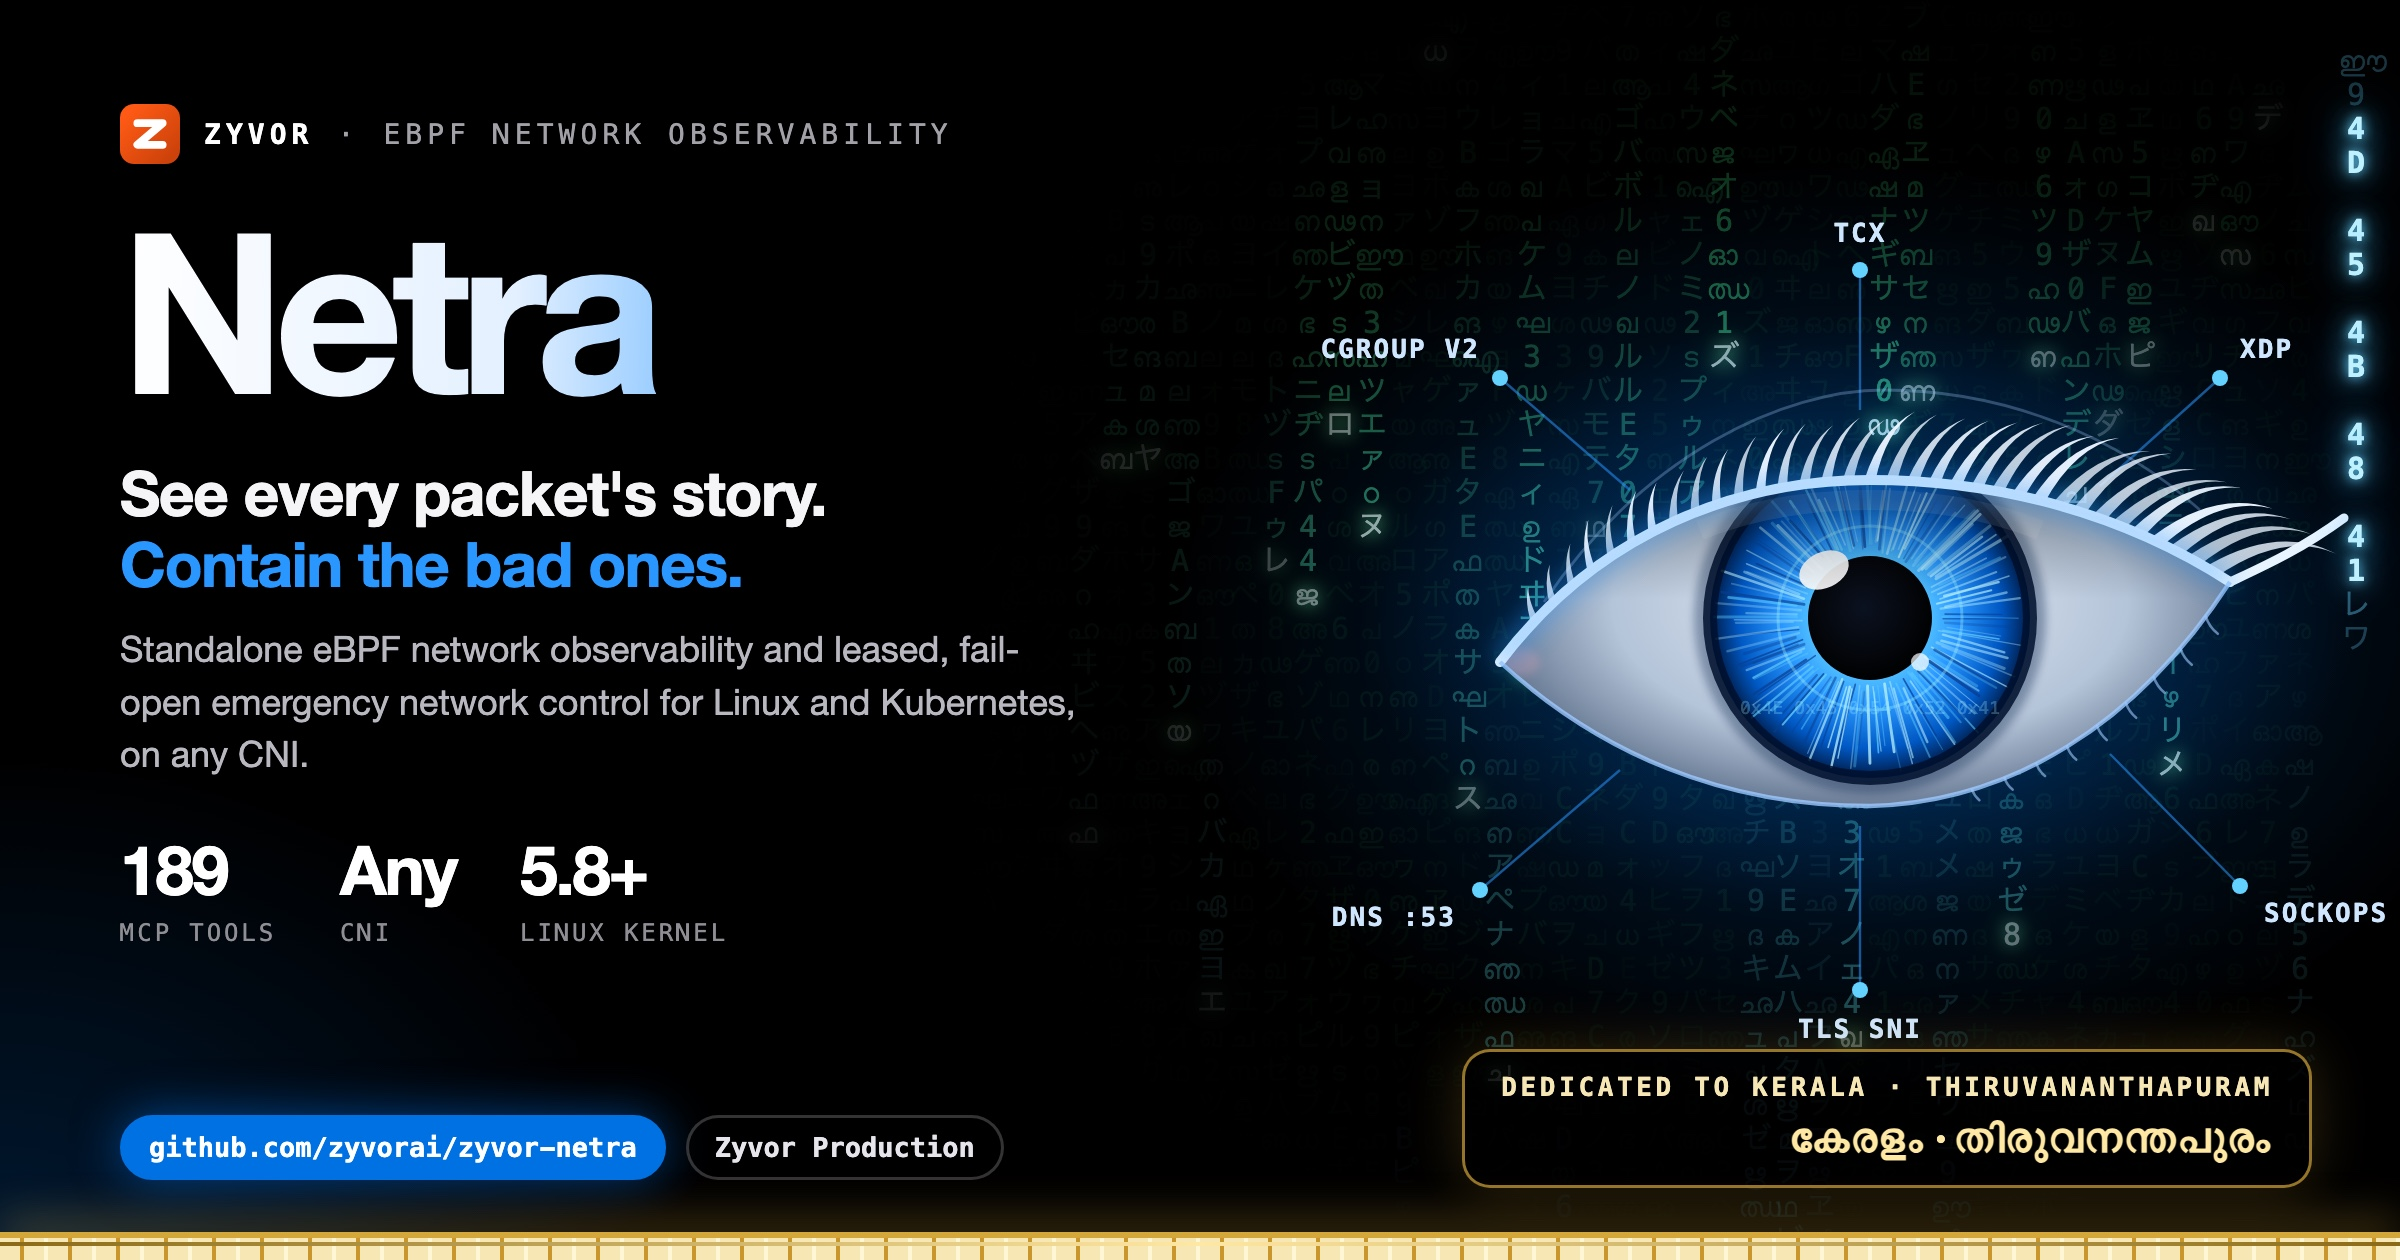
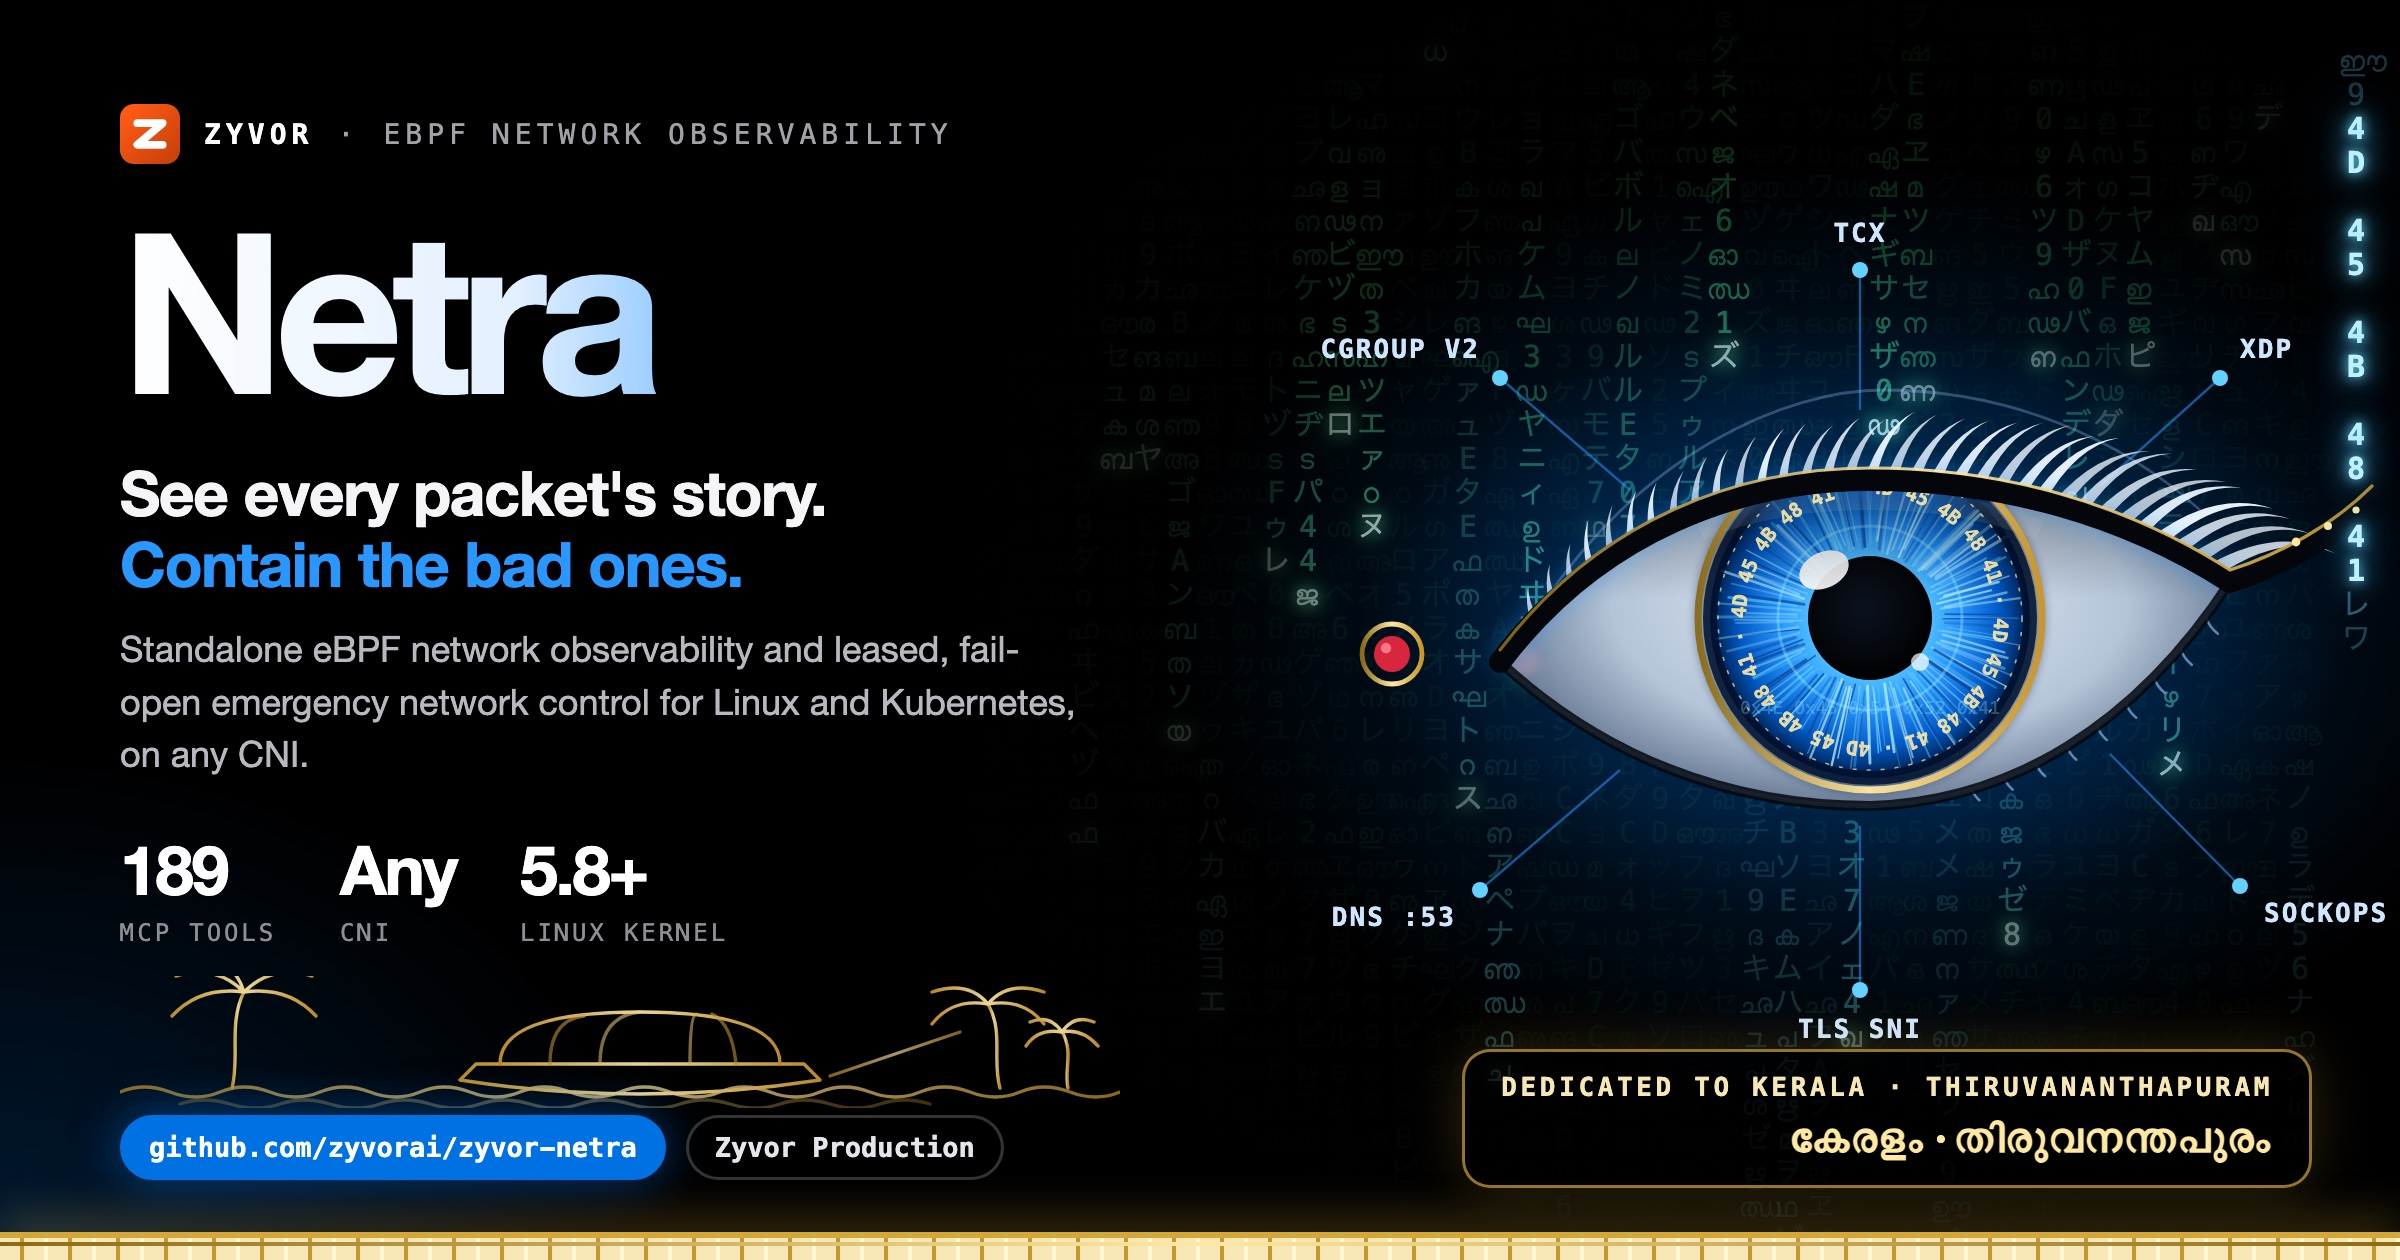
Hero: Kerala-style eye (kohl wing, gold iris ring with MEKHA in hex, bindi) and a backwater scene

diff --git a/docs/social/netra-hero-dark.html b/docs/social/netra-hero-dark.html
@@ -52,6 +52,7 @@
     background:rgba(0,0,0,.62); border:1.5px solid rgba(212,167,58,.7); box-shadow:0 0 28px rgba(212,167,58,.22); }
   .ded .en { font-family:var(--mono); font-size:13px; font-weight:700; letter-spacing:.14em; text-transform:uppercase; color:#f6e7b4; }
   .ded .ml { margin-top:4px; font-family:'Malayalam MN','Malayalam Sangam MN','Noto Sans Malayalam',var(--sans); font-size:22px; line-height:1.2; font-weight:700; color:#ffe8a3; }
+  .kerala { position:absolute; left:60px; top:488px; width:500px; height:66px; z-index:4; opacity:.92; }
 </style>
 </head>
 <body>
@@ -143,6 +144,27 @@
   <g id="lashes" fill="none" stroke="#e8f4ff" stroke-linecap="round"></g>
   <g id="lowlashes" fill="none" stroke="#9ec9ff" stroke-linecap="round" stroke-opacity=".6"></g>
   <path d="M150,236 C200,170 270,145 335,145 C400,145 462,162 515,196" fill="none" stroke="#2997ff" stroke-width="10" opacity=".45" filter="url(#bloom)"/>
+  <!-- Kerala style: heavy kohl with a winged tail, gold-ringed iris with MEKHA in hex, a bindi -->
+  <defs>
+    <linearGradient id="gold" x1="0" y1="0" x2="1" y2="0">
+      <stop offset="0" stop-color="#8a6a16"/><stop offset=".5" stop-color="#ffe8a3"/><stop offset="1" stop-color="#c9962b"/>
+    </linearGradient>
+    <path id="hexring" d="M335,152 a62,62 0 1,1 -0.01,0"/>
+  </defs>
+  <g clip-path="url(#eyeClip)">
+    <circle cx="335" cy="214" r="86" fill="none" stroke="url(#gold)" stroke-width="3.5" opacity=".95"/>
+    <circle cx="335" cy="214" r="76" fill="none" stroke="#ffe8a3" stroke-width=".8" stroke-dasharray="2 5" opacity=".7"/>
+    <text font-family="SF Mono, Menlo, monospace" font-size="10" font-weight="700" fill="#ffe8a3" opacity=".9" letter-spacing="1">
+      <textPath href="#hexring" textLength="384" lengthAdjust="spacing">4D 45 4B 48 41 &#183; 4D 45 4B 48 41 &#183; 4D 45 4B 48 41 &#183; 4D 45 4B 48 41 &#183;</textPath>
+    </text>
+  </g>
+  <path d="M150,236 C200,170 270,145 335,145 C400,145 462,162 515,196 C540,188 566,174 586,154" fill="none" stroke="#04060c" stroke-width="11" stroke-linecap="round" stroke-linejoin="round"/>
+  <path d="M150,236 C200,170 270,145 335,145 C400,145 462,162 515,196 C540,188 566,174 586,154" fill="none" stroke="url(#gold)" stroke-width="1.6" stroke-linecap="round" opacity=".9" transform="translate(0,-6)"/>
+  <path d="M150,236 C200,282 262,308 335,308 C405,306 468,268 515,196" fill="none" stroke="#04060c" stroke-width="5" stroke-linecap="round" opacity=".85"/>
+  <g fill="#ffe8a3"><circle cx="548" cy="176" r="2.2"/><circle cx="564" cy="168" r="2"/><circle cx="578" cy="160" r="1.8"/></g>
+  <!-- bindi -->
+  <circle cx="96" cy="232" r="15" fill="none" stroke="url(#gold)" stroke-width="2.4"/>
+  <circle cx="96" cy="232" r="9" fill="#d7263d"/><circle cx="93" cy="229" r="2.6" fill="#ff8d9a" opacity=".8"/>
 </svg>
 
 <div class="left">
@@ -152,6 +174,25 @@
   <div class="lede">Standalone eBPF network observability and leased, fail-open emergency network control for Linux and Kubernetes, on any CNI.</div>
   <div class="stats"><div class="stat"><b>189</b><span>MCP tools</span></div><div class="stat"><b>Any</b><span>CNI</span></div><div class="stat"><b>5.8+</b><span>Linux kernel</span></div></div>
 </div>
+<svg class="kerala" viewBox="0 0 500 66" aria-hidden="true" fill="none" stroke="url(#gold2)" stroke-width="1.7" stroke-linecap="round" stroke-linejoin="round">
+  <defs><linearGradient id="gold2" x1="0" y1="0" x2="1" y2="0"><stop offset="0" stop-color="#c9962b"/><stop offset=".5" stop-color="#ffe8a3"/><stop offset="1" stop-color="#c9962b"/></linearGradient></defs>
+  <!-- backwater -->
+  <path d="M0,58 q12,-5 25,0 t25,0 t25,0 t25,0 t25,0 t25,0 t25,0 t25,0 t25,0 t25,0 t25,0 t25,0 t25,0 t25,0 t25,0 t25,0 t25,0 t25,0 t25,0 t25,0" stroke-opacity=".75"/>
+  <path d="M30,64 q12,-4 25,0 t25,0 t25,0 t25,0 t25,0 t25,0 t25,0 t25,0 t25,0 t25,0 t25,0 t25,0 t25,0 t25,0 t25,0" stroke-opacity=".35"/>
+  <!-- coconut palm, left -->
+  <path d="M56,56 C60,40 54,24 62,8"/>
+  <path d="M62,8 q-22,-3 -36,12 M62,8 q-14,-14 -34,-8 M62,8 q22,-3 36,12 M62,8 q14,-14 34,-8 M62,8 q-3,-10 -10,-13"/>
+  <!-- kettuvallam houseboat: arched thatch roof over a curved hull -->
+  <path d="M170,52 Q260,66 350,52 L342,44 L178,44 Z"/>
+  <path d="M190,44 Q190,18 260,18 Q330,18 330,44"/>
+  <path d="M215,44 Q215,22 232,20 M240,44 Q240,20 260,18 M285,44 Q285,20 288,19 M308,44 Q306,24 296,19" stroke-opacity=".6"/>
+  <path d="M355,50 L420,28" stroke-opacity=".7"/>
+  <!-- palms, right -->
+  <path d="M440,56 C436,42 442,28 434,14"/>
+  <path d="M434,14 q-18,-3 -28,10 M434,14 q-10,-12 -28,-6 M434,14 q18,-3 28,10 M434,14 q10,-12 28,-6"/>
+  <path d="M474,56 C472,46 477,38 471,28"/>
+  <path d="M471,28 q-12,-2 -18,7 M471,28 q10,-2 18,7 M471,28 q-6,-9 -16,-5 M471,28 q6,-9 16,-5"/>
+</svg>
 <div class="pill"><span class="b">github.com/zyvorai/zyvor-netra</span><span>Zyvor Production</span></div>
 
 <div class="ded"><div class="en">Dedicated to Kerala &middot; Thiruvananthapuram</div><div class="ml">കേരളം · തിരുവനന്തപുരം</div></div>

diff --git a/docs/social/README.md b/docs/social/README.md
@@ -11,3 +11,4 @@ Every claim on the social card is one the [product brochure](../sales/brochure/R
 Licence wording follows `LICENSE`: the Zyvor Production Licence v2.0; a commercial license is required for production use.
 
 The dark hero (`netra-hero-dark.html` / `.jpg`) carries a dedication to Kerala and Thiruvananthapuram (English and Malayalam), a gold kasavu border along the bottom edge, and Malayalam letters mixed into the code rain. The README hero and the website's social preview both use it.
+The hero eye is drawn Kerala style: heavy kohl with a winged tail, a gold-ringed iris carrying MEKHA in hex (`4D 45 4B 48 41`) all the way round, a bindi, and a gold line-art backwater scene (palms and a kettuvallam houseboat) along the left.
